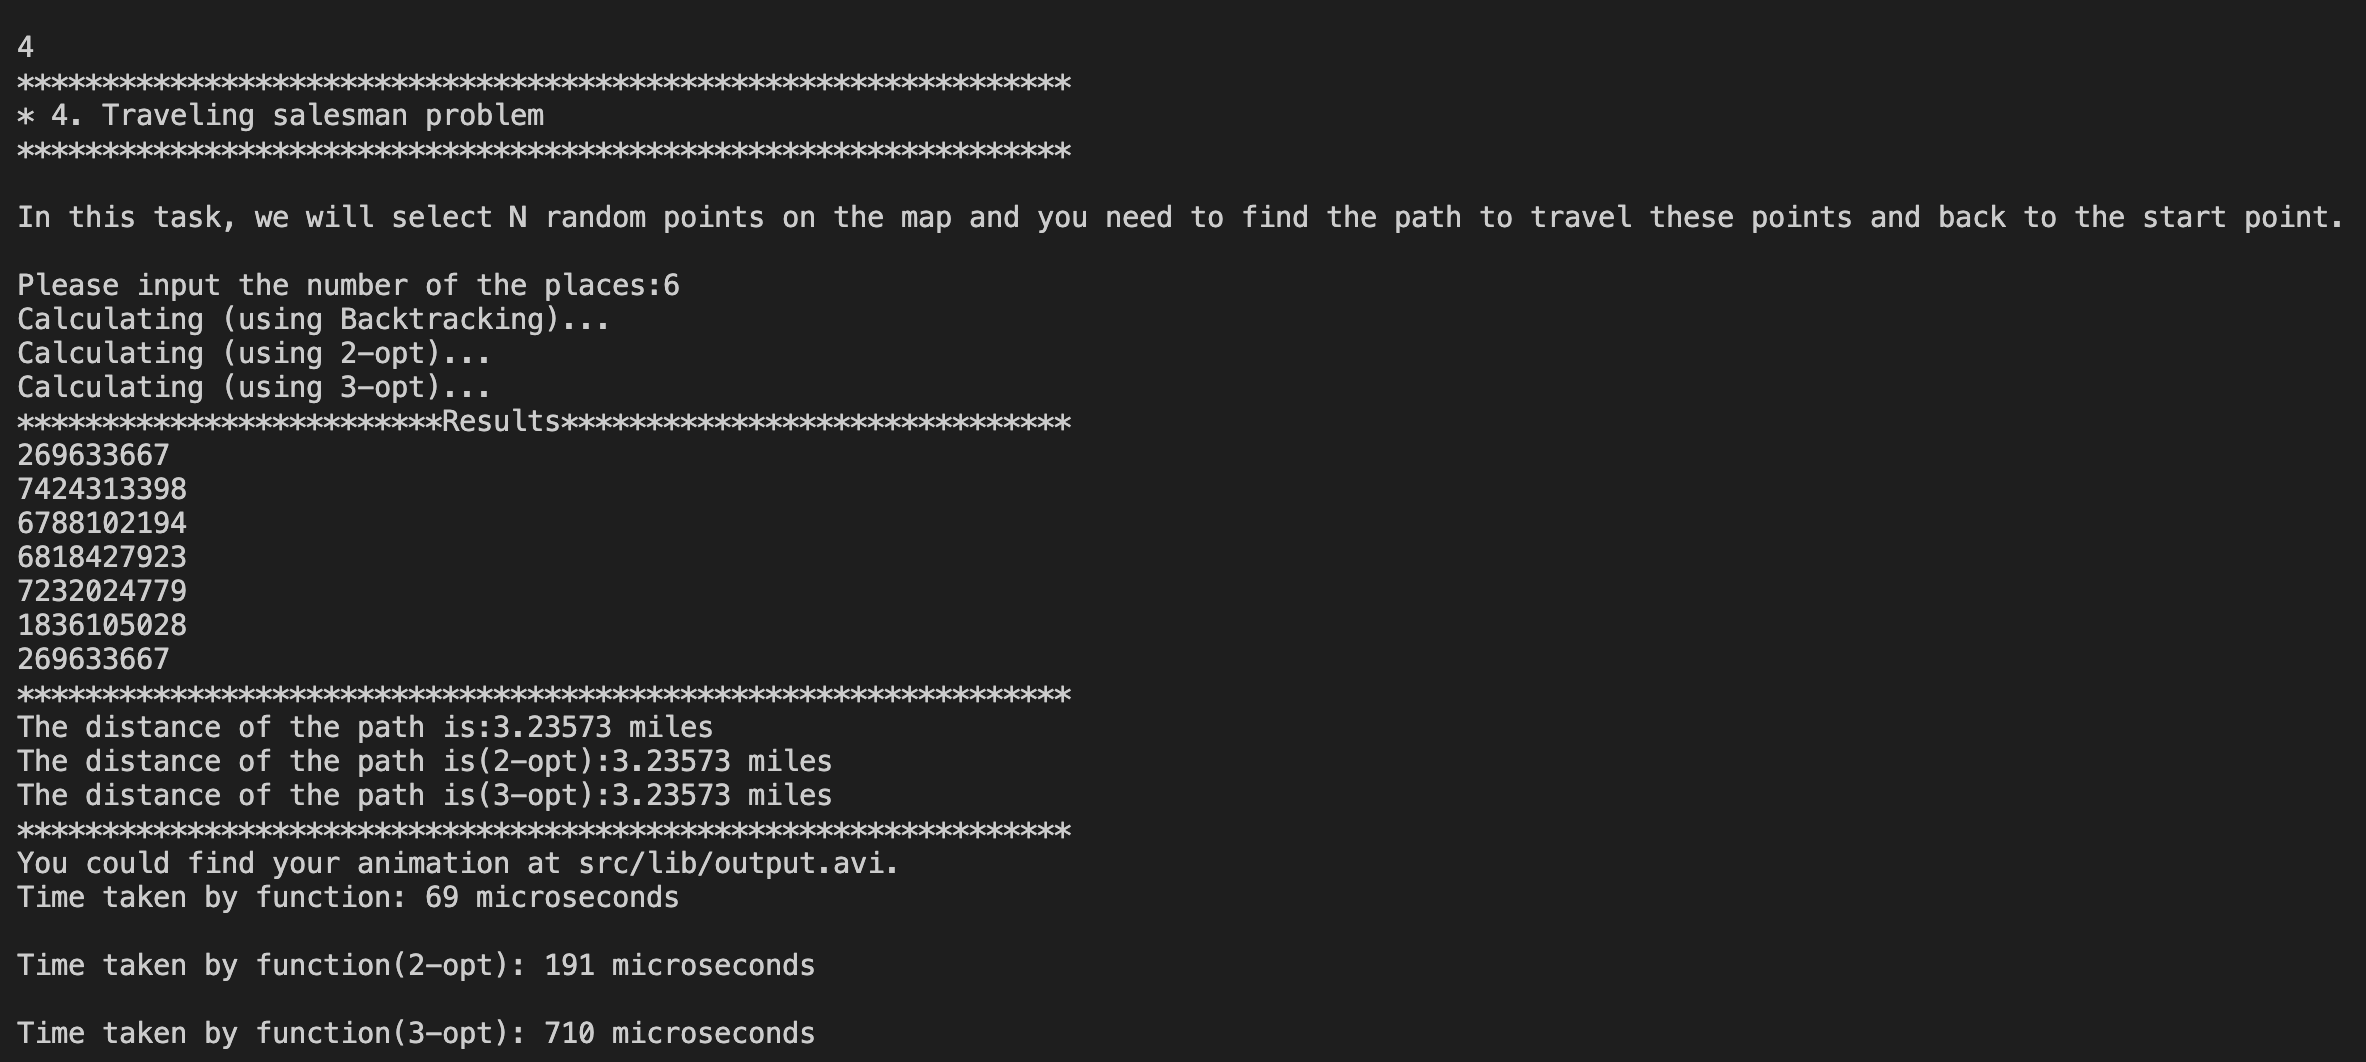
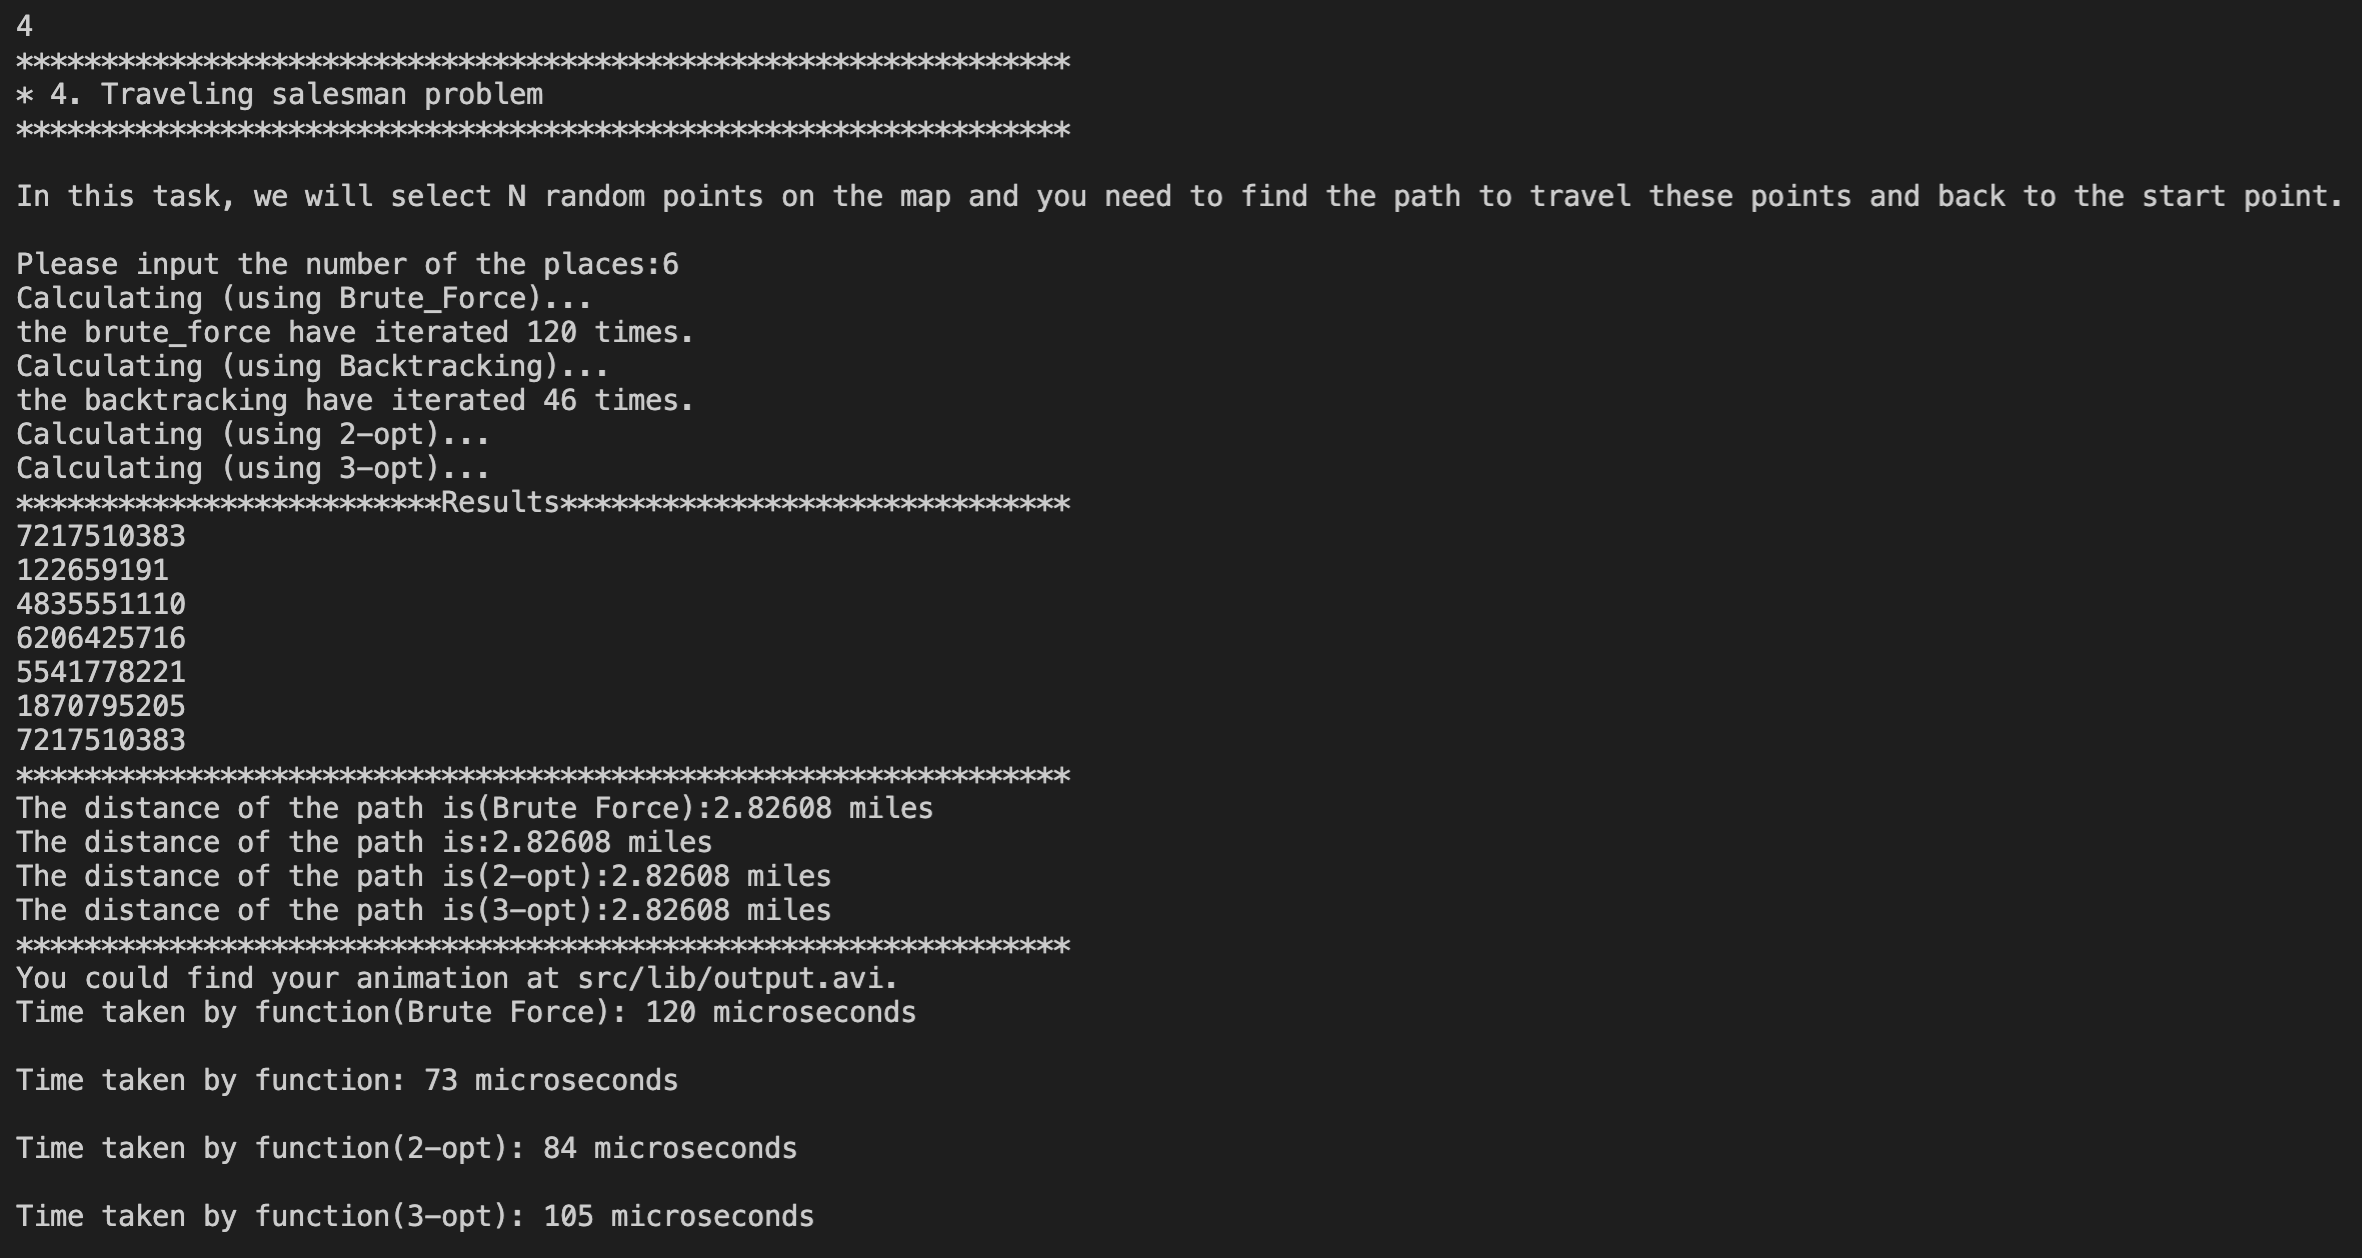
update the bar chart for tsp

Changed region(s): [[0.0, 0.0311, 0.989, 0.8701], [0.0, 0.9633, 0.34, 0.9944], [0.0, 0.9011, 0.34, 0.9322]]

diff --git a/src/lib/trojanmap.cc b/src/lib/trojanmap.cc
@@ -206,7 +206,7 @@ void TrojanMap::PrintMenu() {
     
     std::cout << "Calculating (using Brute_Force)..." << std::endl;
     auto start = std::chrono::high_resolution_clock::now();
-    //auto results_bf = TravellingTrojan_Brute_force(locations);
+    auto results_bf = TravellingTrojan_Brute_force(locations);
     auto stop = std::chrono::high_resolution_clock::now();
     auto duration_bf = std::chrono::duration_cast<std::chrono::microseconds>(stop - start);
 
@@ -228,7 +228,7 @@ void TrojanMap::PrintMenu() {
     stop = std::chrono::high_resolution_clock::now();
     auto duration_3opt = std::chrono::duration_cast<std::chrono::microseconds>(stop - start);
 
-    //CreateAnimation(results_bf.second, "output0");
+    CreateAnimation(results_bf.second, "output0");
     CreateAnimation(results.second, "TSP_output_001");
     CreateAnimation(results_2opt.second, "TSP_output_002");
     CreateAnimation(results_3opt.second, "TSP_output_003");
@@ -239,7 +239,7 @@ void TrojanMap::PrintMenu() {
       for (auto x : results.second[results.second.size()-1]) std::cout << x << std::endl;
       menu = "**************************************************************\n";
       std::cout << menu;
-      //std::cout << "The distance of the path is(Brute Force):" << results_bf.first << " miles" << std::endl;
+      std::cout << "The distance of the path is(Brute Force):" << results_bf.first << " miles" << std::endl;
       std::cout << "The distance of the path is:" << results.first << " miles" << std::endl;
       std::cout << "The distance of the path is(2-opt):" << results_2opt.first << " miles" << std::endl;
       std::cout << "The distance of the path is(3-opt):" << results_3opt.first << " miles" << std::endl;
@@ -348,7 +348,12 @@ void TrojanMap::PrintMenu() {
       std::string id = GetID(x);
       node_ids.push_back(id);
     }
-    PlotPointsOrder(node_ids);
+    if(node_ids.size() == 0){
+      std::cout << "No feasible route exists!" << std::endl;
+    }else{
+      PlotPointsOrder(node_ids);
+    }
+    
     menu = "**************************************************************\n";
     std::cout << menu;
     std::cout << "Time taken by function: " << duration.count() << " microseconds" << std::endl << std::endl;

diff --git a/README.md b/README.md
@@ -257,12 +257,11 @@ void TrojanMap::TPS_3opt(const std::vector<std::vector<double>> &adjacent_matrix
 ```
 <p align="center"><img src="report/TSP_3_opt.jpeg" alt="3-opt" width="600"/></p>
 
-
-Please report and compare the time spent by these 2 algorithms. 2-opt algorithm may not get the optimal solution. Please show how far your solution is from the optimal solution.
-
-Show the routes on the map. For each intermediate solution, create a new plot. Your final video presentation should include the changes to your solution.
-
-We will randomly select N points in the map and run your program.
+### Examples
+output0.avi -> the changes of the path in Brute Force  
+TSP_output_001.avi -> the changes of the path in Backtracking(actually it is the same as Brute Force)  
+TSP_output_002.avi -> the changes of the path in 2-opt  
+TSP_output_003.avi -> the changes of the path in 3-opt  
 
 Case 1: 6 locations
 For a few locations, all the 3 methods can find the optimal result in an acceptable time. These two heuristic algorithms have to do some redundant iterators, so in this case they cost more time than Brute Force/Backtracking.
@@ -276,17 +275,17 @@ When the locations become more, the time increase of Brute Force/Backtracking is
 
 Case 3: 13 locations
 At this case, the time cost by Brute Force is gradually unacceptable, the early break helps Backtracking save a lot of time. But the two heuristic algorithms can dramatically decrease the time consumption，and can get the same or very close results.
-<p align="center"><img src="report/TSP_12.png" alt="Runtime" width="800"/></p>
-<p align="center"><img src="report/TSP_12loc.png" alt="Visualization" width="500"/></p>
+<p align="center"><img src="report/TSP_13.png" alt="Runtime" width="800"/></p>
+<p align="center"><img src="report/TSP_13loc.png" alt="Visualization" width="500"/></p>
 
 | Algorithm | 6 locations | 9 locations | 13 locations |
 | :---: | :---: | :---: | :---: |
 | `Brute Force` | <img src="report/TSP_6_bf.gif" alt="TSP_6_bf videos" width="300"/> | <img src="report/TSP_9_bf.gif" alt="TSP_9_bf videos" width="300"/> |
 | `Backtracking` | <img src="report/TSP_6.gif" alt="TSP_6 videos" width="300"/> | <img src="report/TSP_9.gif" alt="TSP_9 videos" width="300"/> | <img src="report/TSP_13.gif" alt="TSP_13 videos" width="300"/> |
-| `2-opt` |  <img src="report/TSP_9loc.gif" alt="TSP_9loc videos" width="300"/> |
-| `3-opt` | <img src="report/TSP_9loc.gif" alt="TSP_9loc videos" width="300"/> | <img src="report/TSP_9loc_2opt.gif" alt="TSP_9loc_2opt videos" width="300"/> | <img src="report/TSP_9loc_3opt.gif" alt="TSP_9loc_3opt videos" width="300"/> |
+| `2-opt` | <img src="report/TSP_6.gif" alt="TSP_6loc videos" width="300"/> | <img src="report/TSP_9_2opt.gif" alt="TSP_9loc_2opt videos" width="300"/> | <img src="report/TSP_13_3opt.gif" alt="TSP_13loc_3opt videos" width="300"/> |
+| `3-opt` | <img src="report/TSP_6.gif" alt="TSP_6loc videos" width="300"/> | <img src="report/TSP_9_2opt.gif" alt="TSP_9loc_2opt videos" width="300"/> | <img src="report/TSP_13_3opt.gif" alt="TSP_13loc_3opt videos" width="300"/> |
 
-### Examples (dis: miles, time: microseconds) - after doing the optimization for 2-opt&3-opt
+### Examples Table (dis: miles, time: microseconds) - after doing the optimization for 2-opt&3-opt
 | # of the places | dis<br />(Brute Force) | time<br />iterations<br />(Brute Force) | dis<br />(Backtracking) | time<br />iterations<br />(Backtracking) | dis<br />(2-opt) | time<br />(2-opt) | dis<br />(3-opt) | time<br />(3-opt) |
 | :---: | :---: | :---: | :---: | :---: | :---: | :---: | :---: | :---: |
 | 4 | 2.36379 | 46<br />6 | 2.36379 | 20<br />5 | 2.36379 | 31 | 2.36379 | 30 |
@@ -308,7 +307,10 @@ At this case, the time cost by Brute Force is gradually unacceptable, the early 
 | 14 | | | 5.5684 | 1849229<br />3151 | 5.5684 | 774 | 5.5684 | 1815 |
 | 15 | | | 6.03345 | 151461534<br />559696 | <font color=red>6.28012</font> | 1362 | 6.03345 | 3588 |
 
-### Examples (dis: miles, time: microseconds) - before doing the optimization for 2-opt&3-opt
+The bar chart of the data: 
+<p align="center"><img src="report/TSP_barchart.png" alt="bar chart" width="800"/></p>
+
+### Examples Table (dis: miles, time: microseconds) - before doing the optimization for 2-opt&3-opt
 | # of the places | dis(Backtracking) | time(Backtracking) | dis(2-opt) | time(2-opt) | dis(3-opt) | time(3-opt) |
 | :---: | :---: | :---: | :---: | :---: | :---: | :---: |
 | 4 | 2.68747 | 33 | 2.68747 | 59 | 2.68747 | 115 |
@@ -334,12 +336,13 @@ At this case, the time cost by Brute Force is gradually unacceptable, the early 
 | 15 | 5.16767 | 1624167 | 5.18942 | 3359 | 5.16767 | 14690 |
 
 ### Runtime Comparison
-1. When the number of locations is larger than 13, the time cost by Backtracking is more than 50 times than 2-opt, while 2-opt/3-opt can have very close or the same results.
-2. In addition, from the cases with the same number of locations, we can find the early break can decrease dramatically the time in some special cases. For example, the last four cases all have 15 locations, but the runtime is different. I think the reason is that when the edges between locations are similar, it would rarely have a chance to get an early break, so it would be degraded to the brute force, on the contrary, if there are some edges long, some edges short, the early break can decrease the time consumption dramatically. 2-opt and 3-opt would not have some very large changes for the same scale cases.
+1. When the number of locations is larger than 11, the time cost by Backtracking is almost 1000 times as much as time cost by 2-opt, while 2-opt/3-opt can have very close or the same results.
+2. In addition, from the cases with the same number of locations, we can find the early break can decrease dramatically the time in many cases compared with brute foce.
+3. 3-opt spent more time than 2-opt, while usually can get more precise results than 2-opt. 
 
 ### Time complexity
 Let n be the number of the locations. 
-1. For the Backtracking, we need to iterate every path, so it is O(n!), while in fact, due to the early break, the time it cost practically would be less than O(n!);
+1. For the Brute Force, we need to iterate every path, so it is O(n!), while for Backtracking, due to the early break, the time it cost practically would be less than O(n!);
 2. Let the K be the number of iterations until the iteration cannot improve the cost, for every iteration, we have O(n^2) ways to choose two locations to reverse the path, so the whole time complexity is (K*n^2).
 3. Similarly to 2-opt, for every iteration, we have O(n^3) ways to choose three locations to change the path in 4 pattern, so the whole time complexity is (K*n^3). 
 
@@ -395,6 +398,9 @@ Case 2: 7 locations
 Case 3: 12 locations
 <p align="center"><img src="report/6_5.png" alt="TopoSort_12loc" width="500"/></p>
 <p align="center"><img src="report/6_6.png" alt="TopoSort_12loc" width="500"/></p>
+Case 4: No fesible(there is a cycle)
+<p align="center"><img src="report/6_7.png" alt="TopoSort_cycle" width="500"/></p>
+<p align="center"><img src="report/6_8.png" alt="TopoSort_cycle" width="500"/></p>
 
 ### Time complexity
 Let V be the number of locations, E be the number of dependencies. Because it just is similar to the DFS, and I use a adjencent list(map) to store all the edge, so the time complexity is O(V+E)
